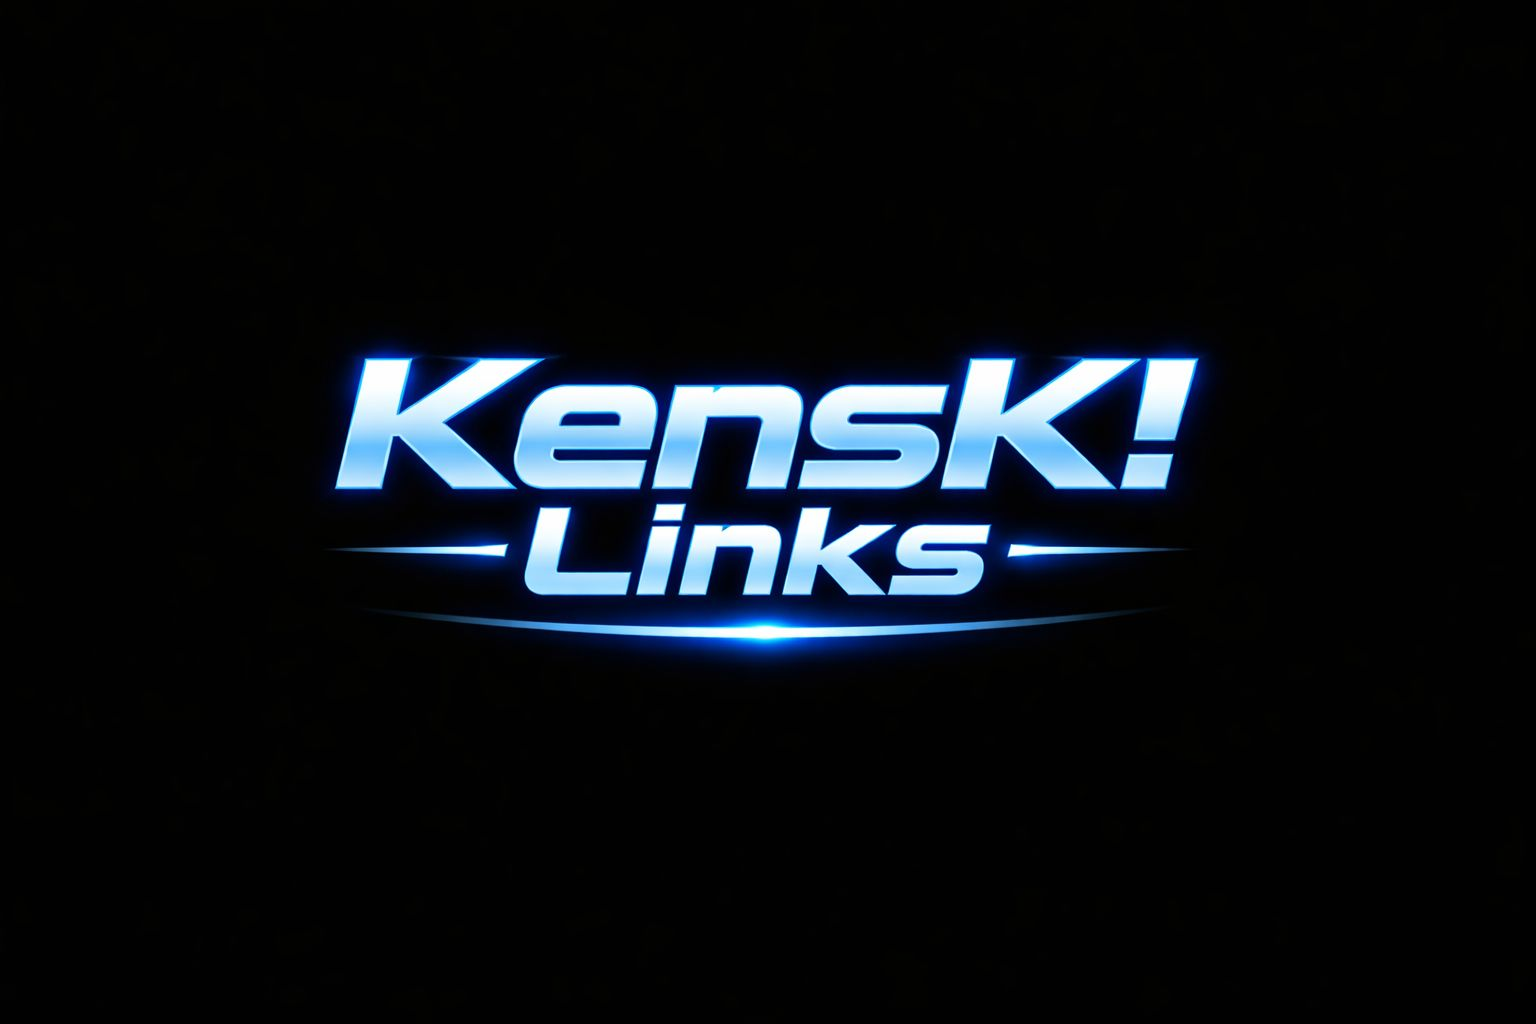
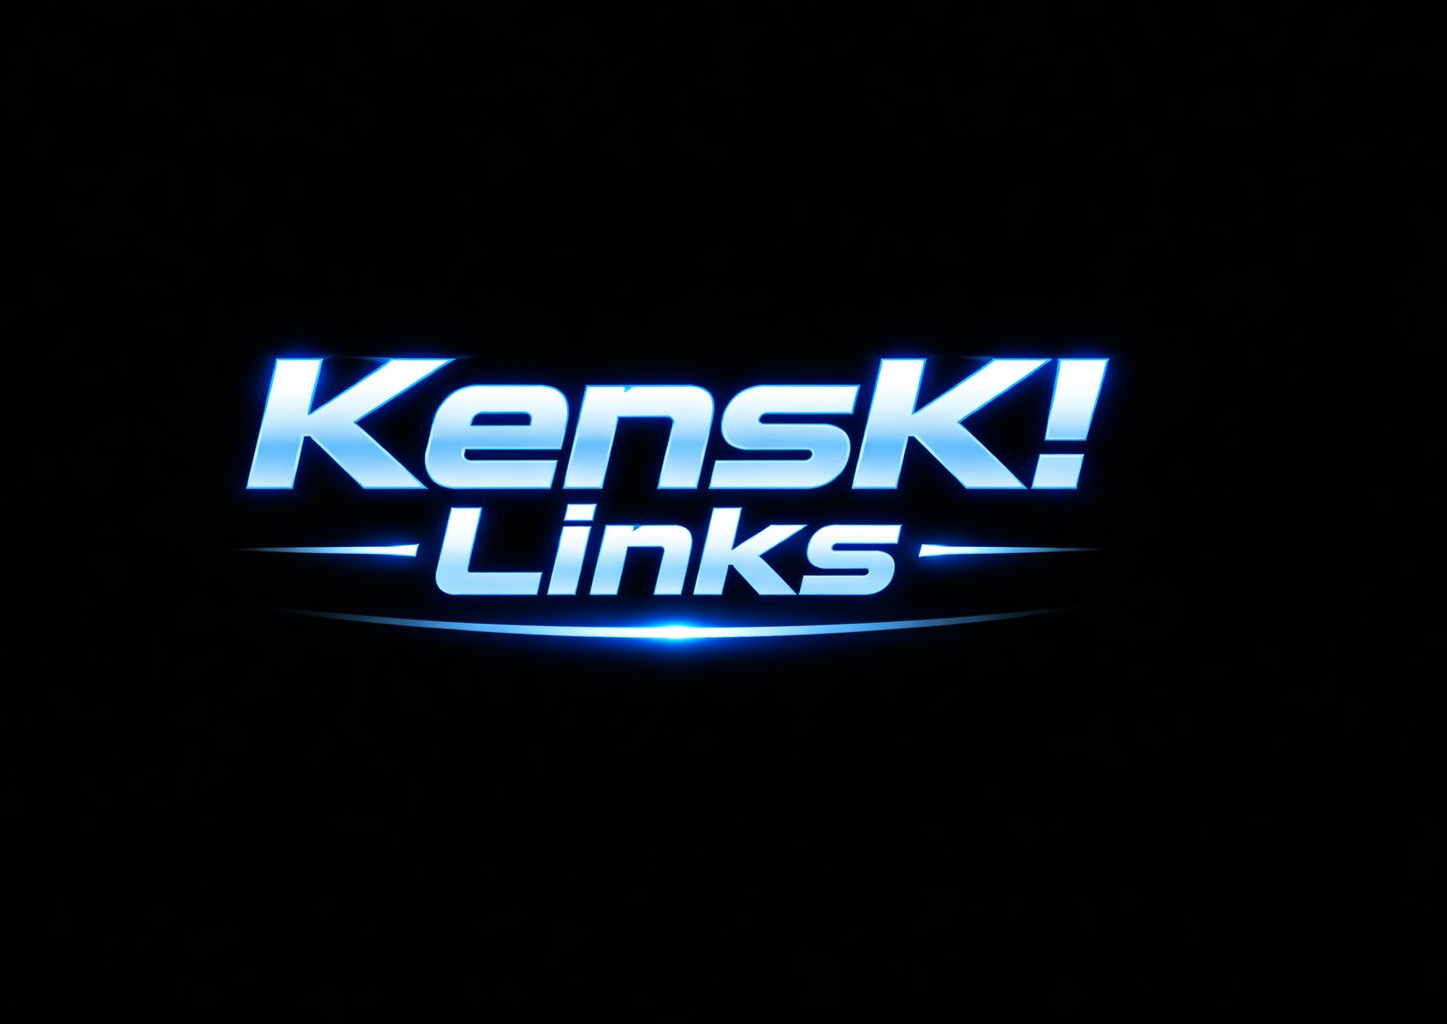
Add files via upload

Changed region(s): [[0.1555, 0.3125, 0.8086, 0.6562]]

diff --git a/style.css b/style.css
@@ -11,7 +11,7 @@ body{
 header img{
     border-radius: 20px;
     margin-top: 0px;
-    width: 300px;
+    width: 310px;
     height: 250px;
 }
 
